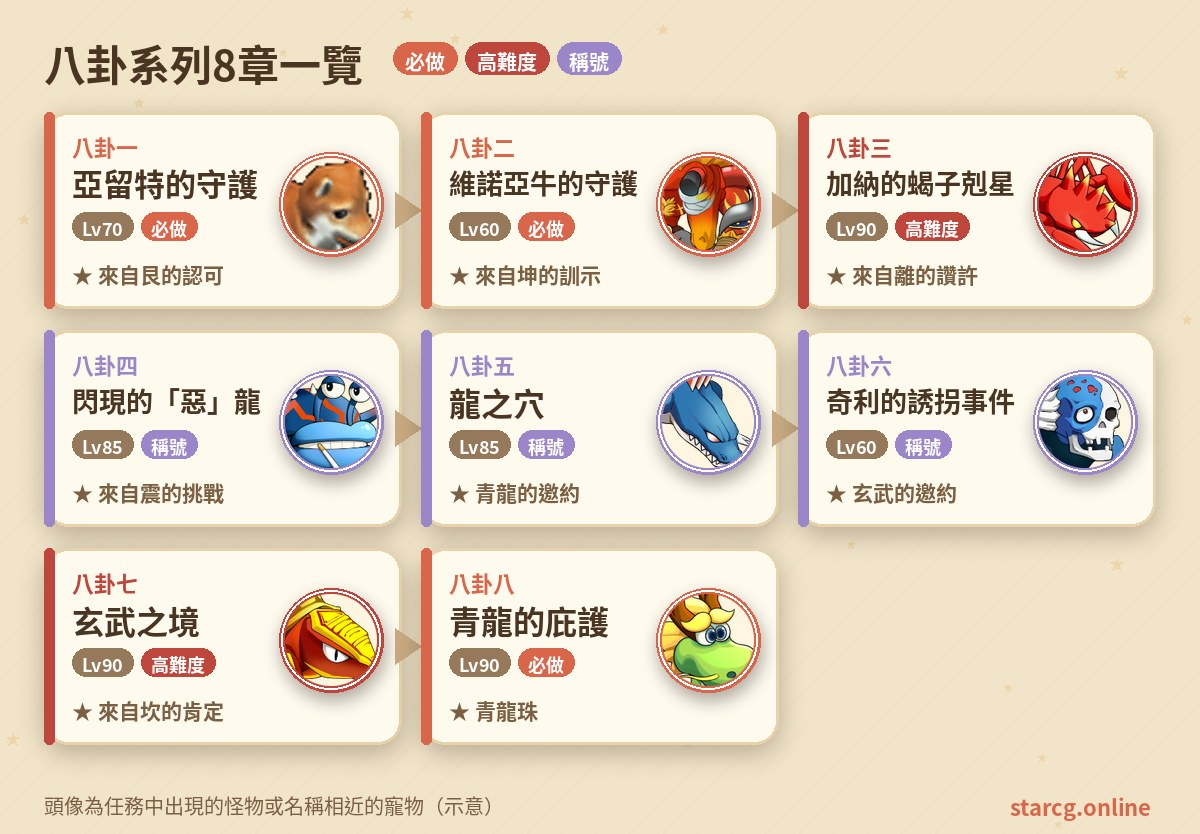
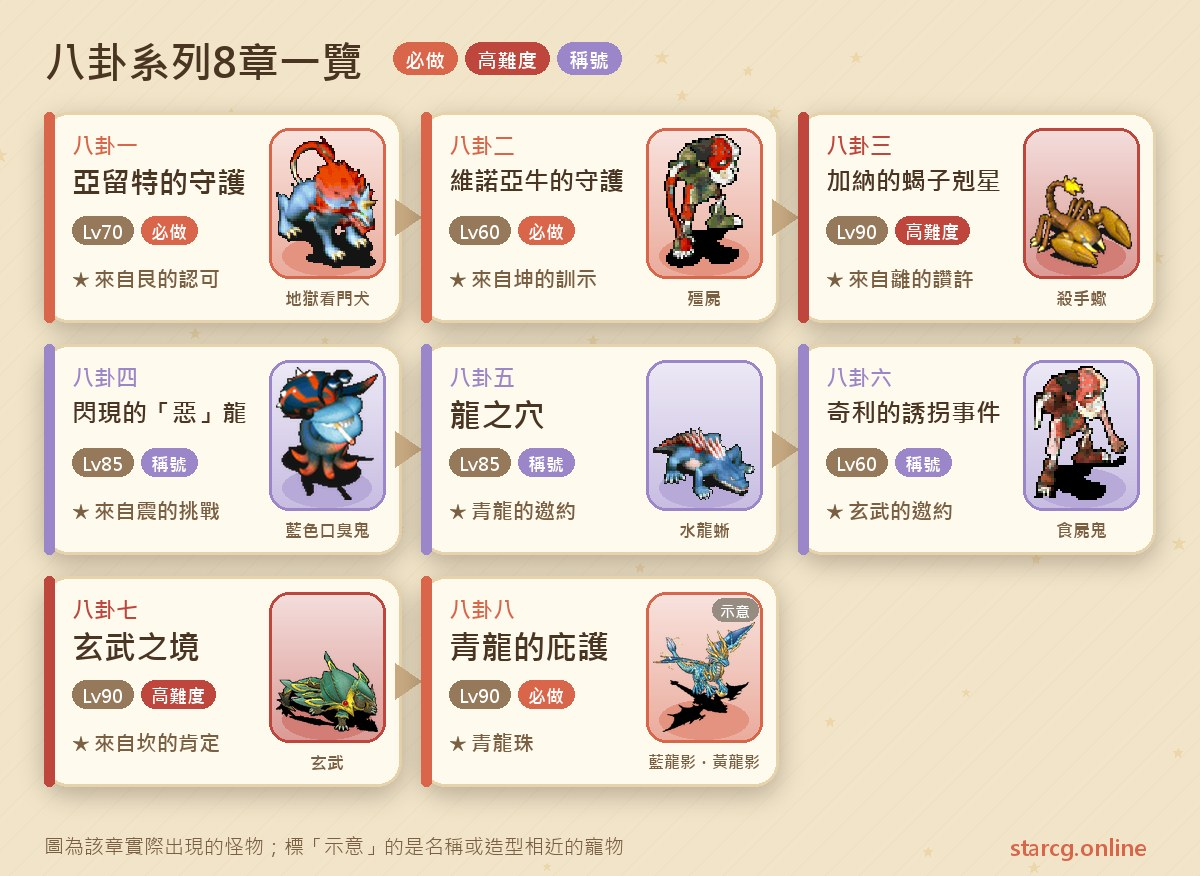
八卦攻略插圖改用全身怪物圖、文章 FAQ 自動輸出 FAQPage 結構化資料
- 八卦五張插圖重做：章節一覽改放各章實際出現的怪物全身圖，BOSS 圖鑑補上坤之意志並標示示意，戰鬥圖改為八卦七玄武並加上血條
- 戰鬥圖移到八卦七段落，更新圖片 alt 文字
- build.mjs：文章「常見問題」段落自動產生 FAQPage JSON-LD

Claude-Session: https://claude.ai/code/session_015zE4E5T7154vbHseJrngyz

diff --git a/src/posts/bagua-quest-guide.md b/src/posts/bagua-quest-guide.md
@@ -11,7 +11,7 @@ cover: img/bagua-quest-guide-cover.jpg
 
 > 本文整理自 [星詠魔力攻略網](https://guide.starcg.net/) 的八卦系列頁面，並用我們自己的方式重新排序與改寫，沒有逐字照搬。BOSS 血量與數值是約略值，實際以遊戲內為準；遊戲更新後內容可能變動。
 
-![八卦系列八個任務一覽：八卦一到八卦八的推薦等級與取得稱號、青龍珠](img/bagua-quest-guide-flow.jpg)
+![八卦任務八章一覽：八卦一到八卦八的推薦等級、取得稱號與青龍珠，以及各章會遇到的地獄看門犬、殭屍、殺手蠍、水龍蜥、玄武等怪物](img/bagua-quest-guide-flow.jpg)
 
 ## 八卦系列是什麼？先看整體順序
 
@@ -78,8 +78,6 @@ cover: img/bagua-quest-guide-cover.jpg
 - 第二戰的坤之意志會逃跑。
 
 **打法**：第一戰敵方數量多達十隻，腐屍血量掉到一半就會自爆，最好一口氣集中打倒，不要把一堆半血的腐屍留在場上。洞窟裡也是 70 級的殭屍、腐屍和大蝙蝠，每隻約 1,500 血，每場 1～3 隻，推薦等級 60 的隊伍走起來不算輕鬆，補給要帶夠。
-
-![八卦二：研究所裡的試作型牛鬼帶著一排腐屍，腐屍半血就自爆，被炸到哭也不奇怪](img/bagua-quest-guide-scene.jpg)
 
 ## 八卦三：加納的蝎子剋星（每個人都要交蝎毒）
 
@@ -167,6 +165,8 @@ cover: img/bagua-quest-guide-cover.jpg
 
 **打法**：玄武不抗石化，有石化手段的隊伍可以多加利用；反過來牠也會對我方放石化，解石化的道具或技能要備好。攻略網提醒留意自身 HP 與石化防護。
 
+![八卦七玄武之境：120 級、約三萬血的玄武用石化魔法把角色打哭，玄武不抗石化、血量低於 20% 會對自己放即死](img/bagua-quest-guide-scene.jpg)
+
 ## 八卦八：青龍的庇護（拿青龍珠開龍族試煉場）
 
 推薦 90 級，條件是持有「青龍的邀約」。
@@ -182,7 +182,7 @@ cover: img/bagua-quest-guide-cover.jpg
 
 **重點**：攻略網把步驟 2 與步驟 4 標為可省略的劇情步驟，也就是說，只要收齊 10 個啟輝石直接交給青龍就能拿到青龍珠。幻境裡的龍影數量多、等級高，一場最多 10 隻，是收集啟輝石時要小心的地方。青龍珠是進入 100 級練功點「龍族試煉場」的鑰匙，想去那裡練功的話，這一章就是整條線的終點。
 
-![八卦系列 BOSS 圖鑑：艮之影、試作型牛鬼、狂戰將軍、楀、青龍護衛、黑暗醫生阿魯巴斯、玄武與震的等級血量](img/bagua-quest-guide-boss.jpg)
+![八卦任務 BOSS 圖鑑：艮之影、坤之意志、試作型牛鬼、狂戰將軍、楀、青龍護衛、黑暗醫生阿魯巴斯、玄武與震的等級、血量與技能](img/bagua-quest-guide-boss.jpg)
 
 ## 八卦系列常見問題
 
